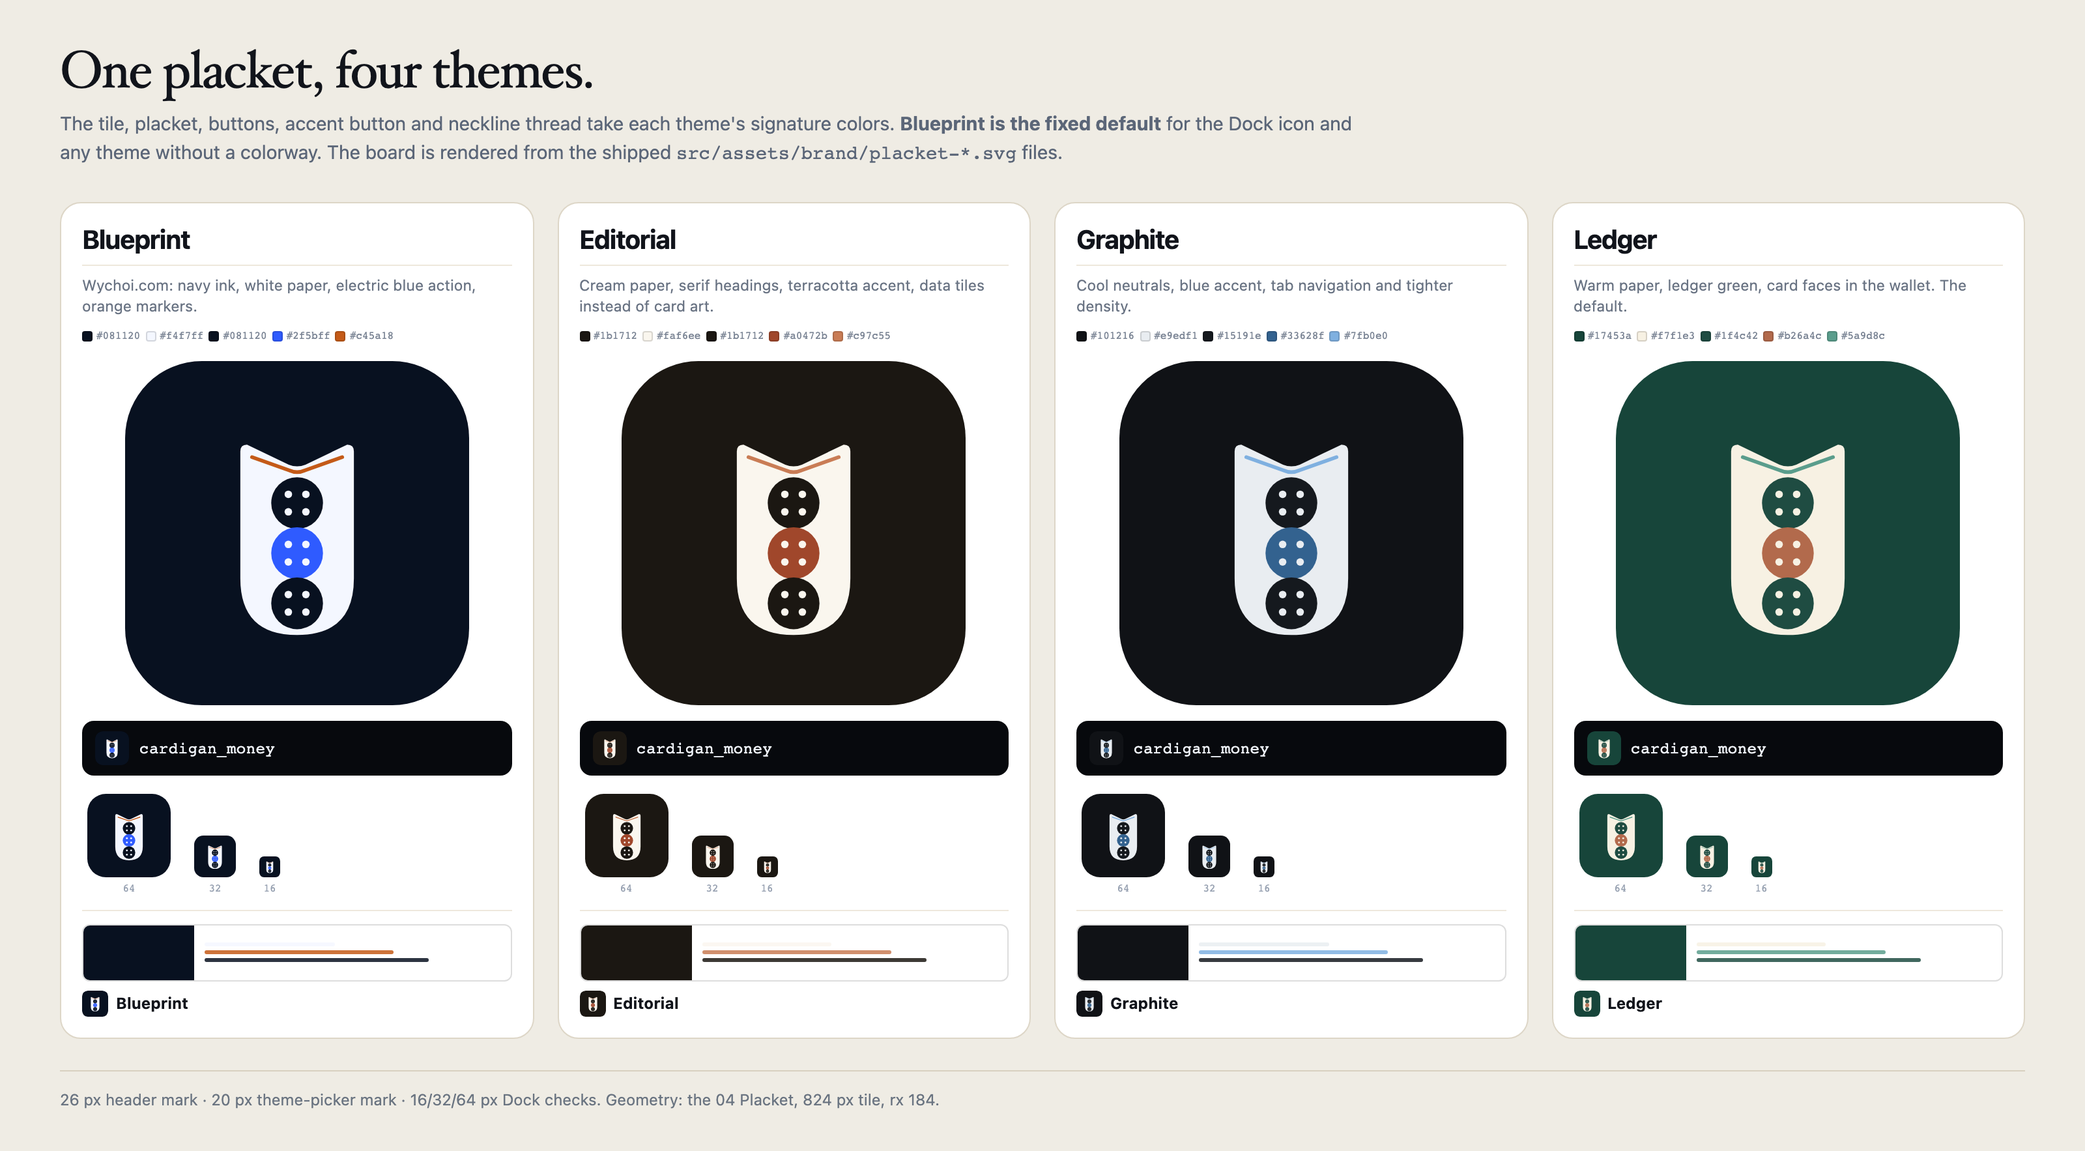
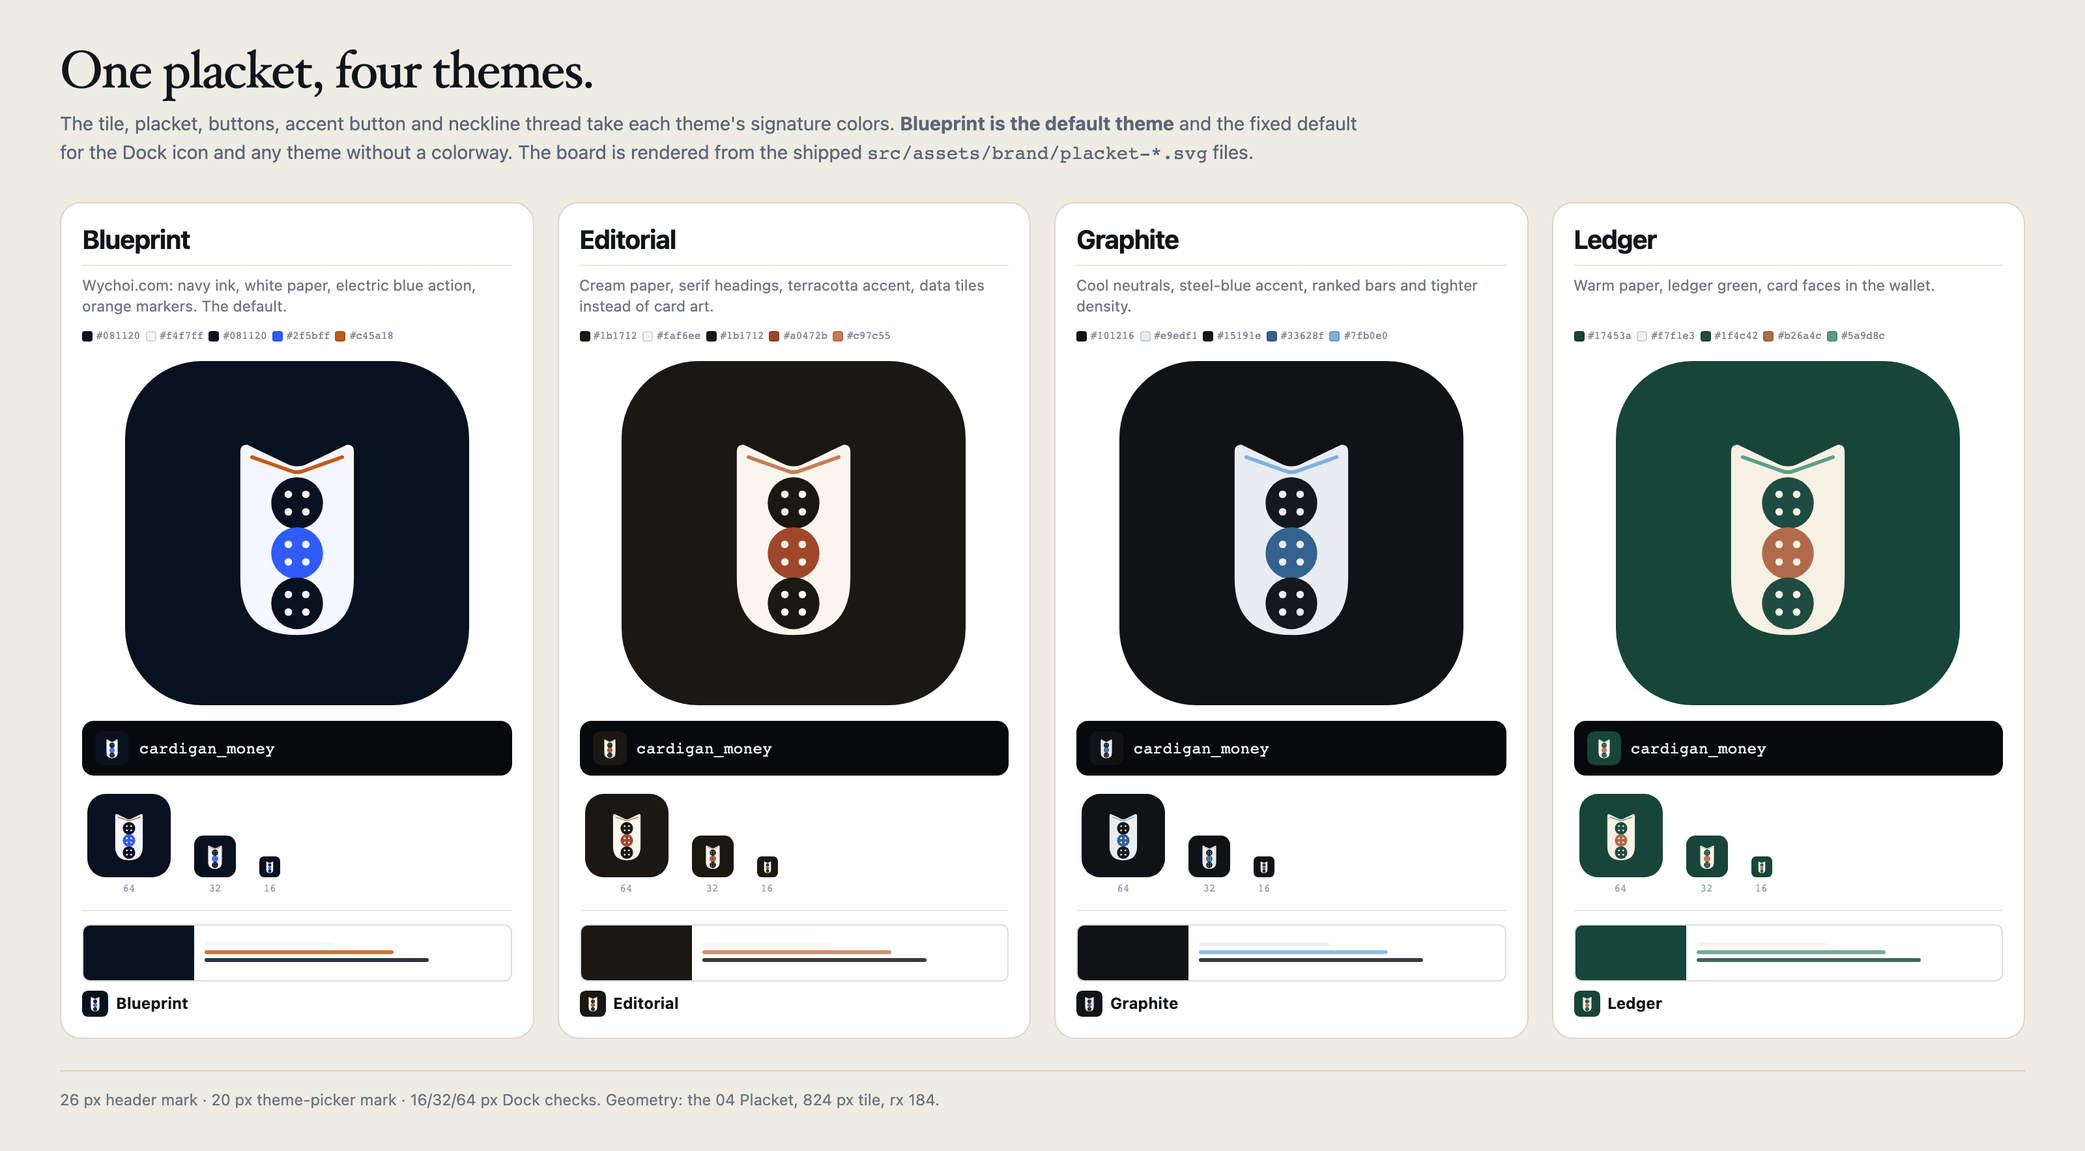
Make Blueprint the default and add launch artwork
Blueprint is now DEFAULT_THEME_ID and the Rust and mock settings default; Ledger remains available and existing vaults keep their saved theme. Theme descriptions, the colorway board and the dashboard e2e expectations follow Blueprint's ranked-bar composition.

Replaced the README screenshot with a Blueprint dark overview and removed the old Ledger screenshot and Forest C banner. Added the GitHub social-preview hero: 1280x640 PNG, 2x render and editable SVG, with the app mark, maker card, privacy/local message and tool stack. The hero is also the README hero.

Tests: 200 Rust, 90 Vitest, 51 Playwright; cargo fmt and clippy clean.

Changed region(s): [[0.0312, 0.0934, 0.6562, 0.1557], [0.75, 0.2492, 0.7812, 0.2803], [0.0938, 0.2492, 0.125, 0.2803]]

diff --git a/e2e/dashboard.spec.ts b/e2e/dashboard.spec.ts
@@ -11,25 +11,26 @@ test.describe("read-only dashboard (browser mock)", () => {
     await expect(page.getByText("Pending in this month")).toBeVisible();
     await expect(page.getByText(/Balances and upcoming payments as of/i)).toBeVisible();
     await expect(page.getByText(/Other currencies are shown separately/i)).toBeVisible();
-    await expect(page.getByRole("img", { name: /Gross spending by category/i })).toBeVisible();
+    await expect(page.getByRole("list", { name: "Spending by category" })).toBeVisible();
     await expect(page.getByRole("img", { name: /Monthly net spending/i })).toBeVisible();
     await expect(page.getByRole("heading", { name: "Needs attention" })).toBeVisible();
   });
 
-  test("theme switch swaps ring for ranked bars without a reload", async ({ page }) => {
+  test("theme switch swaps ranked bars for the ring without a reload", async ({ page }) => {
     await openUnlocked(page);
-    await expect(page.getByRole("img", { name: /Gross spending by category/i })).toBeVisible();
+    await expect(page.getByRole("list", { name: "Spending by category" })).toBeVisible();
+    await expect(page.getByRole("img", { name: /Gross spending by category/i })).toHaveCount(0);
 
-    await expect(page.locator(".brand-mark")).toHaveAttribute("data-brand-theme", "ledger");
+    await expect(page.locator(".brand-mark")).toHaveAttribute("data-brand-theme", "blueprint");
     await page.getByRole("button", { name: "Settings", exact: true }).click();
     await expect(page.locator(".theme-card-mark img")).toHaveCount(4);
-    await page.locator(".theme-card", { hasText: "Graphite" }).click();
-    await expect(page.locator(".brand-mark")).toHaveAttribute("data-brand-theme", "graphite");
+    await page.locator(".theme-card", { hasText: "Ledger" }).click();
+    await expect(page.locator(".brand-mark")).toHaveAttribute("data-brand-theme", "ledger");
     await page.getByRole("button", { name: "Overview", exact: true }).click();
 
     await expect(page.getByRole("heading", { name: "Overview" })).toBeVisible();
-    await expect(page.getByRole("list", { name: "Spending by category" })).toBeVisible();
-    await expect(page.getByRole("img", { name: /Gross spending by category/i })).toHaveCount(0);
+    await expect(page.getByRole("img", { name: /Gross spending by category/i })).toBeVisible();
+    await expect(page.getByRole("list", { name: "Spending by category" })).toHaveCount(0);
   });
 
   test("cards show due amount kinds without inventing an amount due", async ({ page }) => {
@@ -131,9 +132,9 @@ test.describe("read-only dashboard (browser mock)", () => {
       .locator(".metric", { hasText: "Current card balances" })
       .locator(".metric-value")
       .innerText();
-    const ringBefore = await page
-      .getByRole("img", { name: /Gross spending by category/i })
-      .getAttribute("aria-label");
+    const compositionBefore = await page
+      .getByRole("list", { name: "Spending by category" })
+      .innerText();
     const trendBefore = await page
       .getByRole("img", { name: /Monthly net spending/i })
       .getAttribute("aria-label");
@@ -143,13 +144,13 @@ test.describe("read-only dashboard (browser mock)", () => {
       "aria-label",
       /September 2026/,
     );
-    const ringAfter = await page
-      .getByRole("img", { name: /Gross spending by category/i })
-      .getAttribute("aria-label");
+    const compositionAfter = await page
+      .getByRole("list", { name: "Spending by category" })
+      .innerText();
     const trendAfter = await page
       .getByRole("img", { name: /Monthly net spending/i })
       .getAttribute("aria-label");
-    expect(ringAfter).not.toBe(ringBefore);
+    expect(compositionAfter).not.toBe(compositionBefore);
     expect(trendAfter).not.toBe(trendBefore);
     const balancesAfter = await page
       .locator(".metric", { hasText: "Current card balances" })
@@ -163,7 +164,7 @@ test.describe("read-only dashboard (browser mock)", () => {
   test("stays usable at 1100 x 760 without page overflow", async ({ page }) => {
     await page.setViewportSize({ width: 1100, height: 760 });
     await openUnlocked(page);
-    await expect(page.getByRole("img", { name: /Gross spending by category/i })).toBeVisible();
+    await expect(page.getByRole("list", { name: "Spending by category" })).toBeVisible();
     const overviewOverflow = await page.evaluate(
       () => document.documentElement.scrollWidth > document.documentElement.clientWidth,
     );

diff --git a/src/theme/schema.test.ts b/src/theme/schema.test.ts
@@ -1,7 +1,7 @@
 import { readFileSync, writeFileSync } from "node:fs";
 import { z } from "zod";
 import { MIX, contrastRatio, mixSrgb } from "./color";
-import { THEMES } from "./index";
+import { DEFAULT_THEME, THEMES } from "./index";
 import { themeSchema, type Theme, type ThemeMode } from "./schema";
 import { themeVariables } from "./tokens";
 
@@ -30,7 +30,8 @@ describe("theme files", () => {
     expect(files).toBeGreaterThan(0);
     expect(THEMES).toHaveLength(files);
     expect(new Set(THEMES.map((theme) => theme.id)).size).toBe(files);
-    expect(THEMES.some((theme) => theme.id === "ledger")).toBe(true);
+    expect(DEFAULT_THEME.id).toBe("blueprint");
+    expect(THEMES.some((theme) => theme.id === "blueprint")).toBe(true);
   });
 
   it("has a stable id for every file", () => {

diff --git a/src/theme/index.ts b/src/theme/index.ts
@@ -49,7 +49,7 @@ if (THEMES.length === 0) {
   throw new Error("No valid themes were found in src/themes/*.theme.json");
 }
 
-export const DEFAULT_THEME = THEMES.find((theme) => theme.id === "ledger") ?? THEMES[0];
+export const DEFAULT_THEME = THEMES.find((theme) => theme.id === "blueprint") ?? THEMES[0];
 
 const warned = new Set<string>();
 

diff --git a/src/mocks/bridge.ts b/src/mocks/bridge.ts
@@ -101,7 +101,7 @@ function mockPlaidStatus(): PlaidStatus {
 const defaultSettings: Settings = {
   timezone: "America/New_York",
   theme: "system",
-  themeId: "ledger",
+  themeId: "blueprint",
   navigation: "sidebar",
   closeBehavior: "unset",
   onboardingCompleted: params.get("mockOnboarding") !== "1",

diff --git a/src/theme/schema.ts b/src/theme/schema.ts
@@ -187,4 +187,4 @@ export type IssuerArt = z.infer<typeof issuerArt>;
 
 export const THEME_MODE_NAMES: ThemeMode[] = ["light", "dark"];
 
-export const DEFAULT_THEME_ID = "ledger";
+export const DEFAULT_THEME_ID = "blueprint";

diff --git a/src-tauri/src/storage/settings.rs b/src-tauri/src/storage/settings.rs
@@ -67,7 +67,7 @@ impl Default for Settings {
         Self {
             timezone: "America/New_York".to_string(),
             theme: Theme::System,
-            theme_id: "ledger".to_string(),
+            theme_id: "blueprint".to_string(),
             navigation: NavigationStyle::Sidebar,
             close_behavior: CloseBehavior::Unset,
             onboarding_completed: false,
@@ -353,7 +353,7 @@ mod tests {
         let s = Settings::default();
         validate_settings(&s).unwrap();
         assert_eq!(s.timezone, "America/New_York");
-        assert_eq!(s.theme_id, "ledger");
+        assert_eq!(s.theme_id, "blueprint");
         assert_eq!(s.navigation, NavigationStyle::Sidebar);
         assert_eq!(s.auto_lock_minutes, 15);
         assert!(s.lock_on_system_events);

diff --git a/docs/reference/implementation-status.md b/docs/reference/implementation-status.md
@@ -587,6 +587,7 @@ Release blockers are not UI work: owner native smoke, a real Trial/Production ve
 
 ### Implemented
 - The app mark is the **04 Placket** from the [abacus exploration](../design/brand/abacus/README.md), replacing the Forest C button in the header, vault gate, onboarding and boot screen. The placket was chosen for its story and its colorable form; the theme picker shows every colorway.
+- **Blueprint is the default theme** (`DEFAULT_THEME_ID` and the Rust settings default), replacing Ledger as the first-run theme. Blueprint remains the fixed Dock icon and mark fallback.
 - **Four colorways ship**: Blueprint, Editorial, Graphite and Ledger. `src/brand/marks.ts` maps `theme.id` to `src/assets/brand/placket-<id>.svg`; `brandMarkFor()` falls back to Blueprint for a missing or unknown id. Assets are generated by `scripts/build-brand-marks.mjs`, which refuses to run when a bundled theme has no palette.
 - **Blueprint is the fixed default.** The Tauri icon set was regenerated from `placket-blueprint-icon.svg`; the boot screen and gate follow the resolved theme, while the Dock icon cannot. The README notes that its Knit Graph banner is historical.
 - The theme picker renders each placket at 20 px next to its theme name. `BrandMark` tags the wrapper with `data-brand-theme`, so the tests assert the shown colorway instead of a hashed asset URL.
@@ -613,6 +614,23 @@ Release blockers are not UI work: owner native smoke, a real Trial/Production ve
 | --- | --- |
 | `pnpm verify` | typecheck, lint, **90 Vitest**, production build, and release-artifact scan passed |
 | `pnpm test:e2e` | **51 Playwright passed**, including navigation/theme mix-and-match and maker credit on the gate, About and footer |
+| `cargo test` | **200 passed**, 1 ignored (50k perf) |
+| `cargo clippy --all-targets -- -D warnings` | clean |
+| `cargo fmt --all --check` | clean |
+
+## 13. Blueprint default and launch assets (2026-10-29)
+
+### Implemented
+- **Blueprint is the default theme.** `DEFAULT_THEME_ID`, the Rust settings default and the mock bridge default are now `blueprint`; Ledger remains available, and existing vaults keep their saved theme.
+- Updated the theme descriptions (Blueprint: "The default"; Ledger no longer claims it), the theme colorway board, and the dashboard e2e expectations for Blueprint's ranked-bar composition. The theme-switch test now verifies ranked bars → the Ledger ring.
+- Replaced the README screenshot with a Blueprint dark overview (`docs/design/app-blueprint-overview-dark.png`); removed the old Ledger screenshot and the historical Forest C banner.
+- Added the GitHub social-preview hero: `docs/design/brand/hero/github-social-preview.png` (1280×640, under GitHub's 1 MB limit), a 2× render and an editable SVG. It is also the README hero, with the Blueprint placket, the maker card, privacy/local messaging and the tool stack. Upload instructions are in the brand README.
+
+### Actual test runs
+| Suite | Result |
+| --- | --- |
+| `pnpm verify` | typecheck, lint, **90 Vitest**, production build, and release-artifact scan passed |
+| `pnpm test:e2e` | **51 Playwright passed**, including the Blueprint ranked-bar default and the Ledger ring switch |
 | `cargo test` | **200 passed**, 1 ignored (50k perf) |
 | `cargo clippy --all-targets -- -D warnings` | clean |
 | `cargo fmt --all --check` | clean |

diff --git a/docs/design/brand/README.md b/docs/design/brand/README.md
@@ -1,6 +1,6 @@
 # Brand
 
-**Installed (29 Oct 2026): Placket, one colorway per theme.**
+**Installed (29 Oct 2026): Placket, one colorway per theme. Blueprint is the default theme.**
 
 The app mark is the 04 Placket from the [abacus exploration](abacus/README.md). It follows the active
 theme in the header, vault gate, onboarding and boot screen. **Blueprint is the fixed default**: the
@@ -27,12 +27,20 @@ The personal brand is **Wai Yin Choi** at [wychoi.com](https://wychoi.com), mark
 from the app's placket and appears in the app's About panel, lock gate, and footer. The website is
 opened by a Rust command that accepts no URL from the renderer.
 
+## GitHub social preview
+
+Upload [`hero/github-social-preview.png`](hero/github-social-preview.png) (1280 × 640, 436 KB) in
+GitHub → Settings → Social preview. It is also the repository README hero. The
+[SVG source](hero/github-social-preview.svg) is editable; run
+`node docs/design/brand/hero/build-github-hero.mjs` to regenerate the 1× and 2× PNGs. Upload the 1×
+PNG (GitHub's recommended size and under its 1 MB limit); the 2× file is for local/retina use.
+
 ## What changed
 
 The previous Forest C button and the Knit Graph exploration are no longer installed. They were
-chosen on 25 Oct 2026 and are preserved in git history. The repository README still uses the
-historical Knit Graph banner — [`preview/r2-center-stage.png`](preview/r2-center-stage.png) — as a
-visual record; the installed app mark is the placket.
+chosen on 25 Oct 2026 and are preserved in git history. The repository README now uses the
+[GitHub social hero](hero/github-social-preview.png) with the Blueprint placket; the old banner
+was removed.
 
 ## Files
 
@@ -40,9 +48,13 @@ visual record; the installed app mark is the placket.
 | --- | --- |
 | [`abacus/`](abacus) | The abacus exploration, the chosen Placket, the source mark, and the colorway boards |
 | [`abacus/preview/theme-colorways.png`](abacus/preview/theme-colorways.png) | The four installed colorways |
-| [`preview/r2-center-stage.png`](preview/r2-center-stage.png) | Historical README banner (Forest C) |
+| [`hero/github-social-preview.png`](hero/github-social-preview.png) | GitHub social preview / README hero (1280×640) |
+| [`hero/github-social-preview.svg`](hero/github-social-preview.svg) | Editable vector source for the hero |
+| [`hero/github-social-preview@2x.png`](hero/github-social-preview@2x.png) | 2560 × 1280 local/retina render |
+| [`hero/build-github-hero.mjs`](hero/build-github-hero.mjs) | Rebuilds the hero SVG and PNGs |
 | `../../../src/assets/brand/` | The shipped per-theme placket SVGs and the 1024 px icon source |
 | `../../../src/assets/wychoi-abacus.svg` | The personal abacus mark used in the maker credit |
 
-The old Forest C icons, heroes, previews, and build scripts were removed on 29 Oct 2026 because they
-described a superseded mark; recover them from git history if the exploration is needed again.
+The old Forest C icons, heroes, previews, banner and build scripts were removed on 29 Oct 2026
+because they described a superseded mark; recover them from git history if the exploration is
+needed again.

diff --git a/docs/reference/decisions.md b/docs/reference/decisions.md
@@ -72,5 +72,5 @@ Choices the implementing agent made inside those constraints.
 | D-025 | One active Plaid Item per institution and environment; refuse duplicate link metadata before `/item/public_token/exchange`, and expose **Update**/**Reconnect** (Plaid update mode) for existing connections | A duplicate Item consumes one of the 10 Trial Item slots and can double-count accounts/billing. Not exchanging the public token prevents the duplicate per Plaid's guidance. Restored `newlink-…` connections and intentionally disconnected connections are exempt so recovery still works. Two separate logins at the same institution are intentionally not supported concurrently. | Locked 2026-10-25 |
 | D-026 | Restore reuses a local Plaid Item when the Keychain still has the token: keep the credential reference and token, mark the connection `healthy` with no cursor, and resync without a new Item. Same-vault and fresh-install restores do this automatically; cross-vault and destructive restores offer an explicit **reuse local Items** choice; a connection without a token rotates to `newlink-…` and needs a new link | A Plaid access token is Item-scoped and device-local, so reuse does not depend on the vault identity or passphrase. Creating a new Item permanently consumes one of 10 Trial slots and `/item/remove` does not restore capacity. Tokens never enter backups, so a restore on another Mac still requires new Items; a revoked token demotes to `reconnect_required`. | Locked 2026-10-26 |
 | D-027 | Navigation layout is `settings.navigation` (`sidebar` or `topbar`), independent of the visual theme | Users can mix any theme with either layout; it lives in the encrypted settings table (`navigation` key) and existing rows load as `sidebar`. The theme contract no longer has an `options.navigation` key. | Locked 2026-10-29 |
-| D-028 | The app mark is the Placket with one colorway per theme; Blueprint is the fixed default for the Dock icon and for any missing colorway | The mark must exist before settings load and as a fixed macOS icon; the four colorways are build assets in `src/assets/brand/`, not theme tokens. The theme picker shows each colorway. | Locked 2026-10-29 |
+| D-028 | The app mark is the Placket with one colorway per theme; Blueprint is both the default theme and the fixed default for the Dock icon and any missing colorway | The mark must exist before settings load and as a fixed macOS icon; the four colorways are build assets in `src/assets/brand/`, not theme tokens. The theme picker shows each colorway. | Locked 2026-10-29 |
 | D-029 | The maker credit is Wai Yin Choi / `wychoi.com` / the personal abacus mark. The only external URL the renderer can request is a hard-coded `https://wychoi.com`, opened through a Rust command that accepts no URL | Branding without granting the renderer a general opener capability; the command cannot be redirected to another host and is available on the locked gate. | Locked 2026-10-29 |

diff --git a/README.md b/README.md
@@ -1,4 +1,4 @@
-![cardigan_money — the historical Knit Graph banner with the Forest button mark](docs/design/brand/preview/r2-center-stage.png)
+![cardigan_money — local-first, encrypted personal finance for macOS](docs/design/brand/hero/github-social-preview.png)
 
 
 A local-first, encrypted personal finance app for macOS. It tracks one person's credit-card
@@ -7,13 +7,13 @@ no telemetry.
 
 Built with Tauri 2, React, TypeScript, Rust, and SQLCipher.
 
-The installed app mark is the **Placket**, with a colorway for each theme; Blueprint is the fixed
-default for the Dock icon and for any theme without a colorway. See the
+Blueprint is the default theme. The app mark is the **Placket**, with a colorway for each theme;
+Blueprint is also the fixed default for the Dock icon and for any theme without a colorway. See the
 [colorway board](docs/design/brand/abacus/preview/theme-colorways.png).
 
 Made by [Wai Yin Choi](https://wychoi.com).
 
-![Historical overview screen with the Ledger theme in dark mode and synthetic demo data](docs/design/app-ledger-overview-dark.jpg)
+![Overview screen with the Blueprint theme in dark mode and synthetic demo data](docs/design/app-blueprint-overview-dark.png)
 
 ## What it does
 

diff --git a/docs/design/theming.md b/docs/design/theming.md
@@ -34,8 +34,8 @@ themed. Section 6 explains where to go when you want to change structure.
 
 **Where it is stored.** The theme id is `settings.themeId` in the encrypted SQLCipher database;
 light/dark/system is `settings.theme`. Both survive lock, restart, and demo mode, and neither is
-written to `localStorage` (there is a test for that). Unknown ids fall back to `ledger` with one
-console warning.
+written to `localStorage` (there is a test for that). Blueprint is the default theme; unknown ids
+fall back to `blueprint` with one console warning.
 
 ---
 
